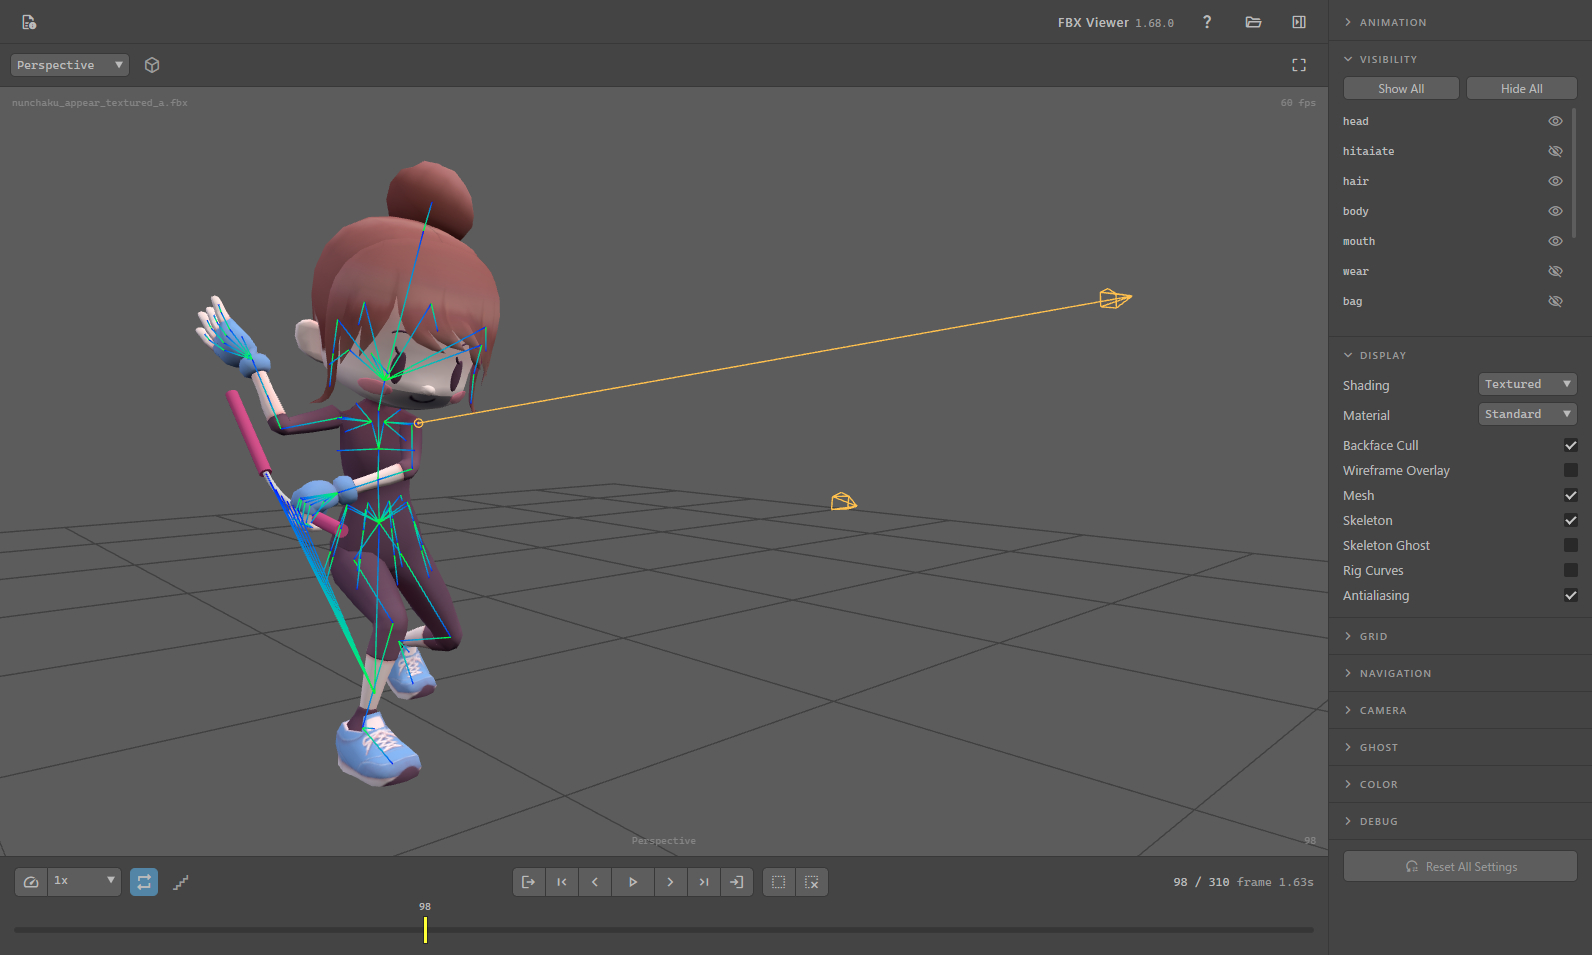
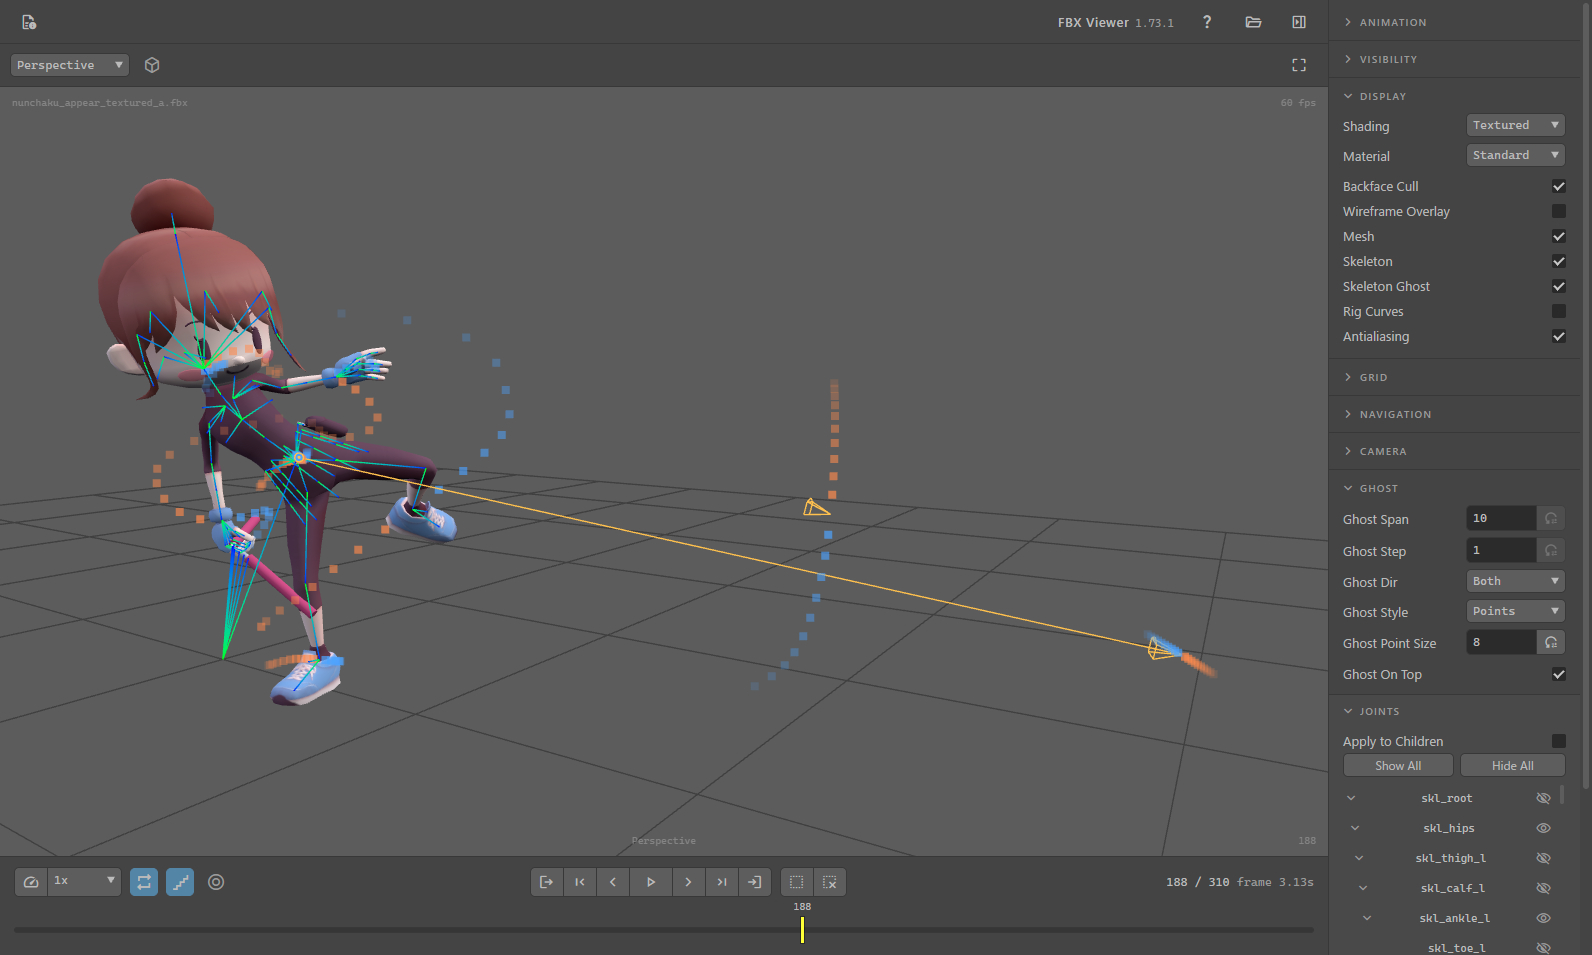
- In Placeモード、およびゴースト表示の追加機能について追記 - スクリーンショット更新

diff --git a/README.md b/README.md
@@ -15,6 +15,7 @@ https://imaoki.github.io/fbx-viewer/
 - **アニメーション再生**
 
   連続/1回/折り返しの再生モード切り替え、0.25〜2倍速、フレームスナップ、再生区間の設定に対応。
+  移動を打ち消してその場で動きの確認を行うことも可能。
 
 - **カメラの再現**
 
@@ -23,6 +24,7 @@ https://imaoki.github.io/fbx-viewer/
 - **オニオンスキン**
 
   スケルトンとカメラのゴースト表示に対応。
+  線/点の切り替えと、ジョイント単位での絞り込みが可能。
 
 - **オブジェクト単位の可視性**
 
